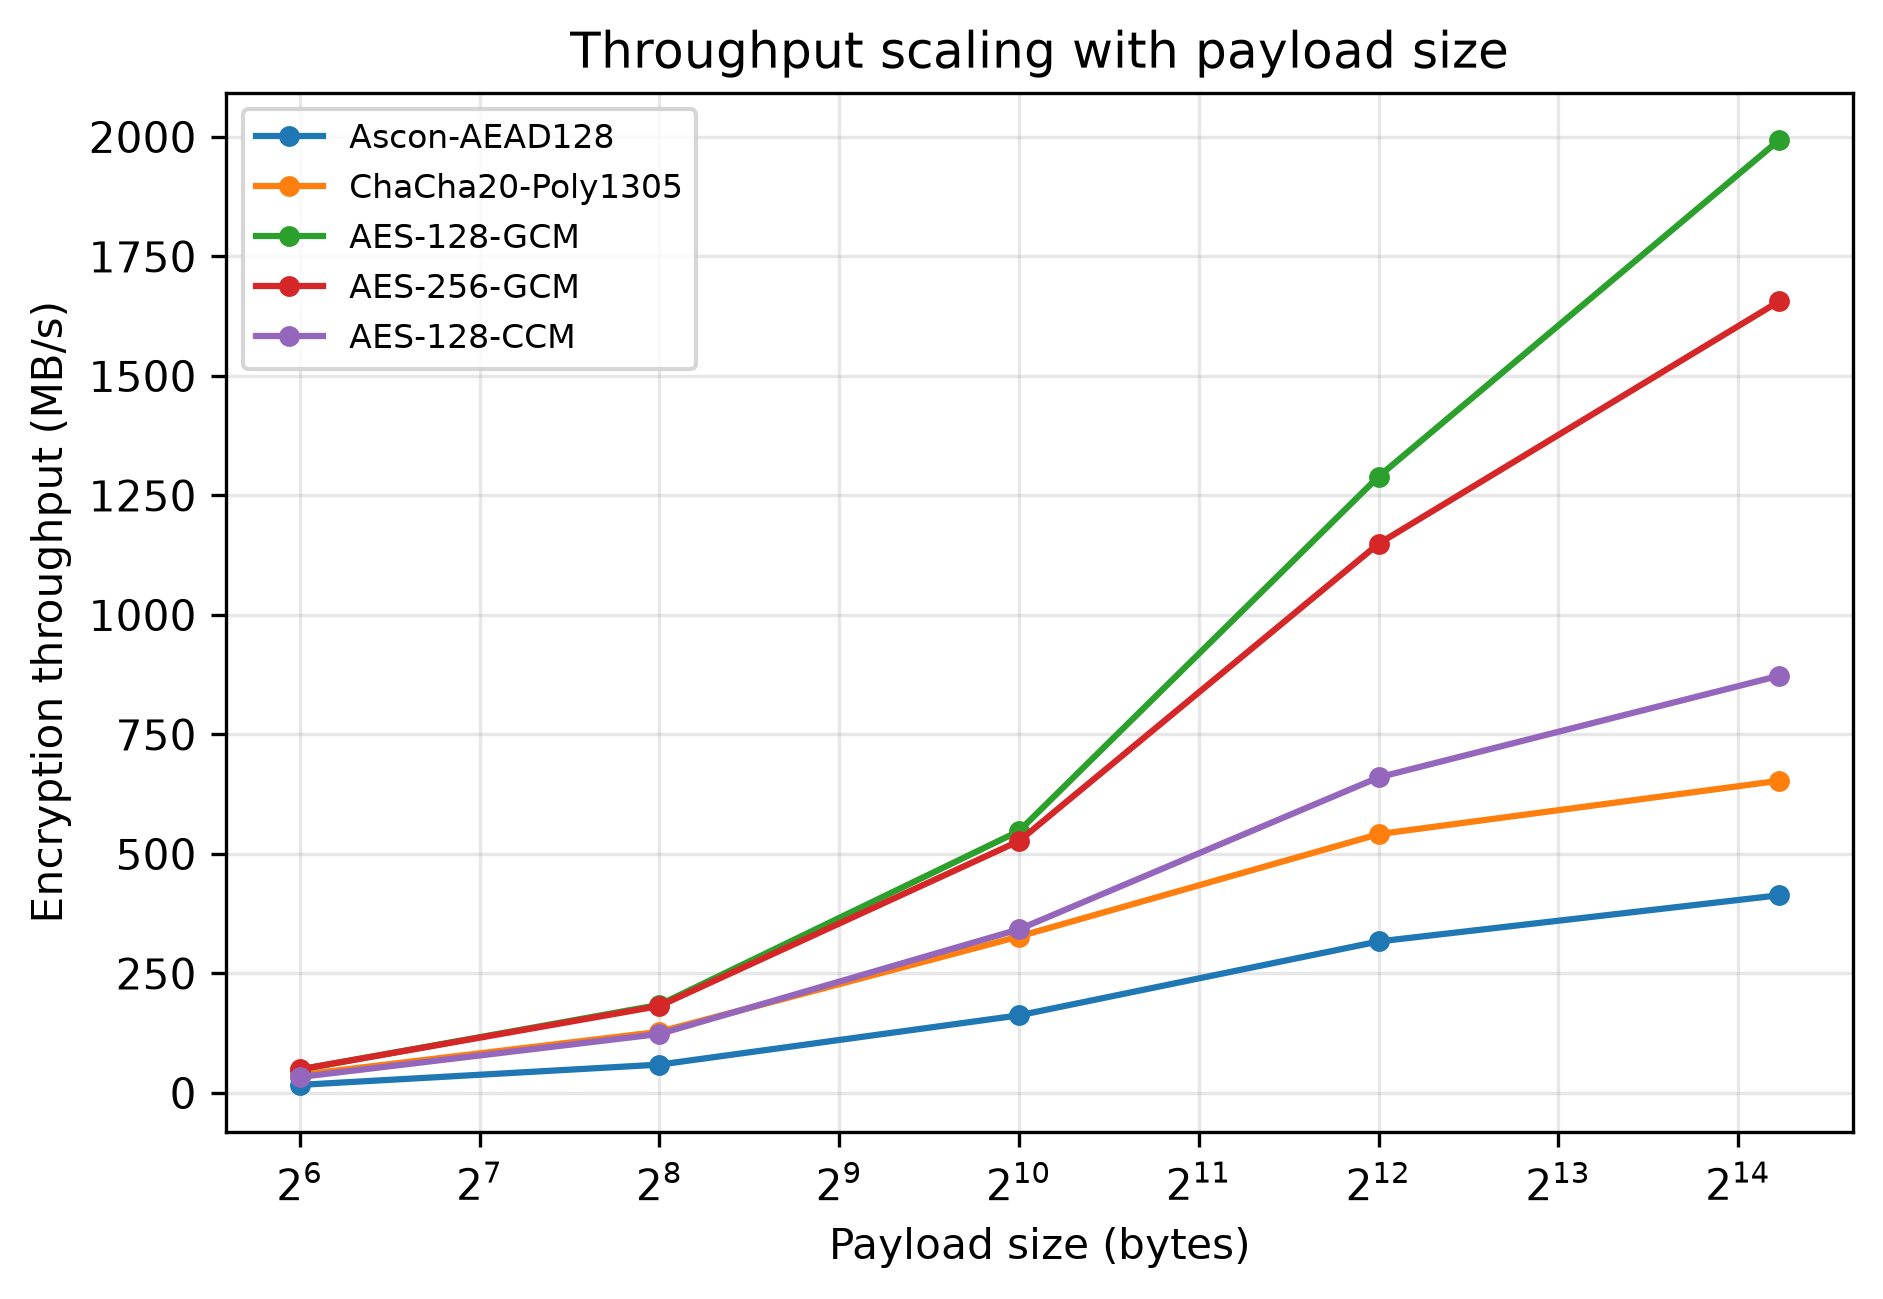
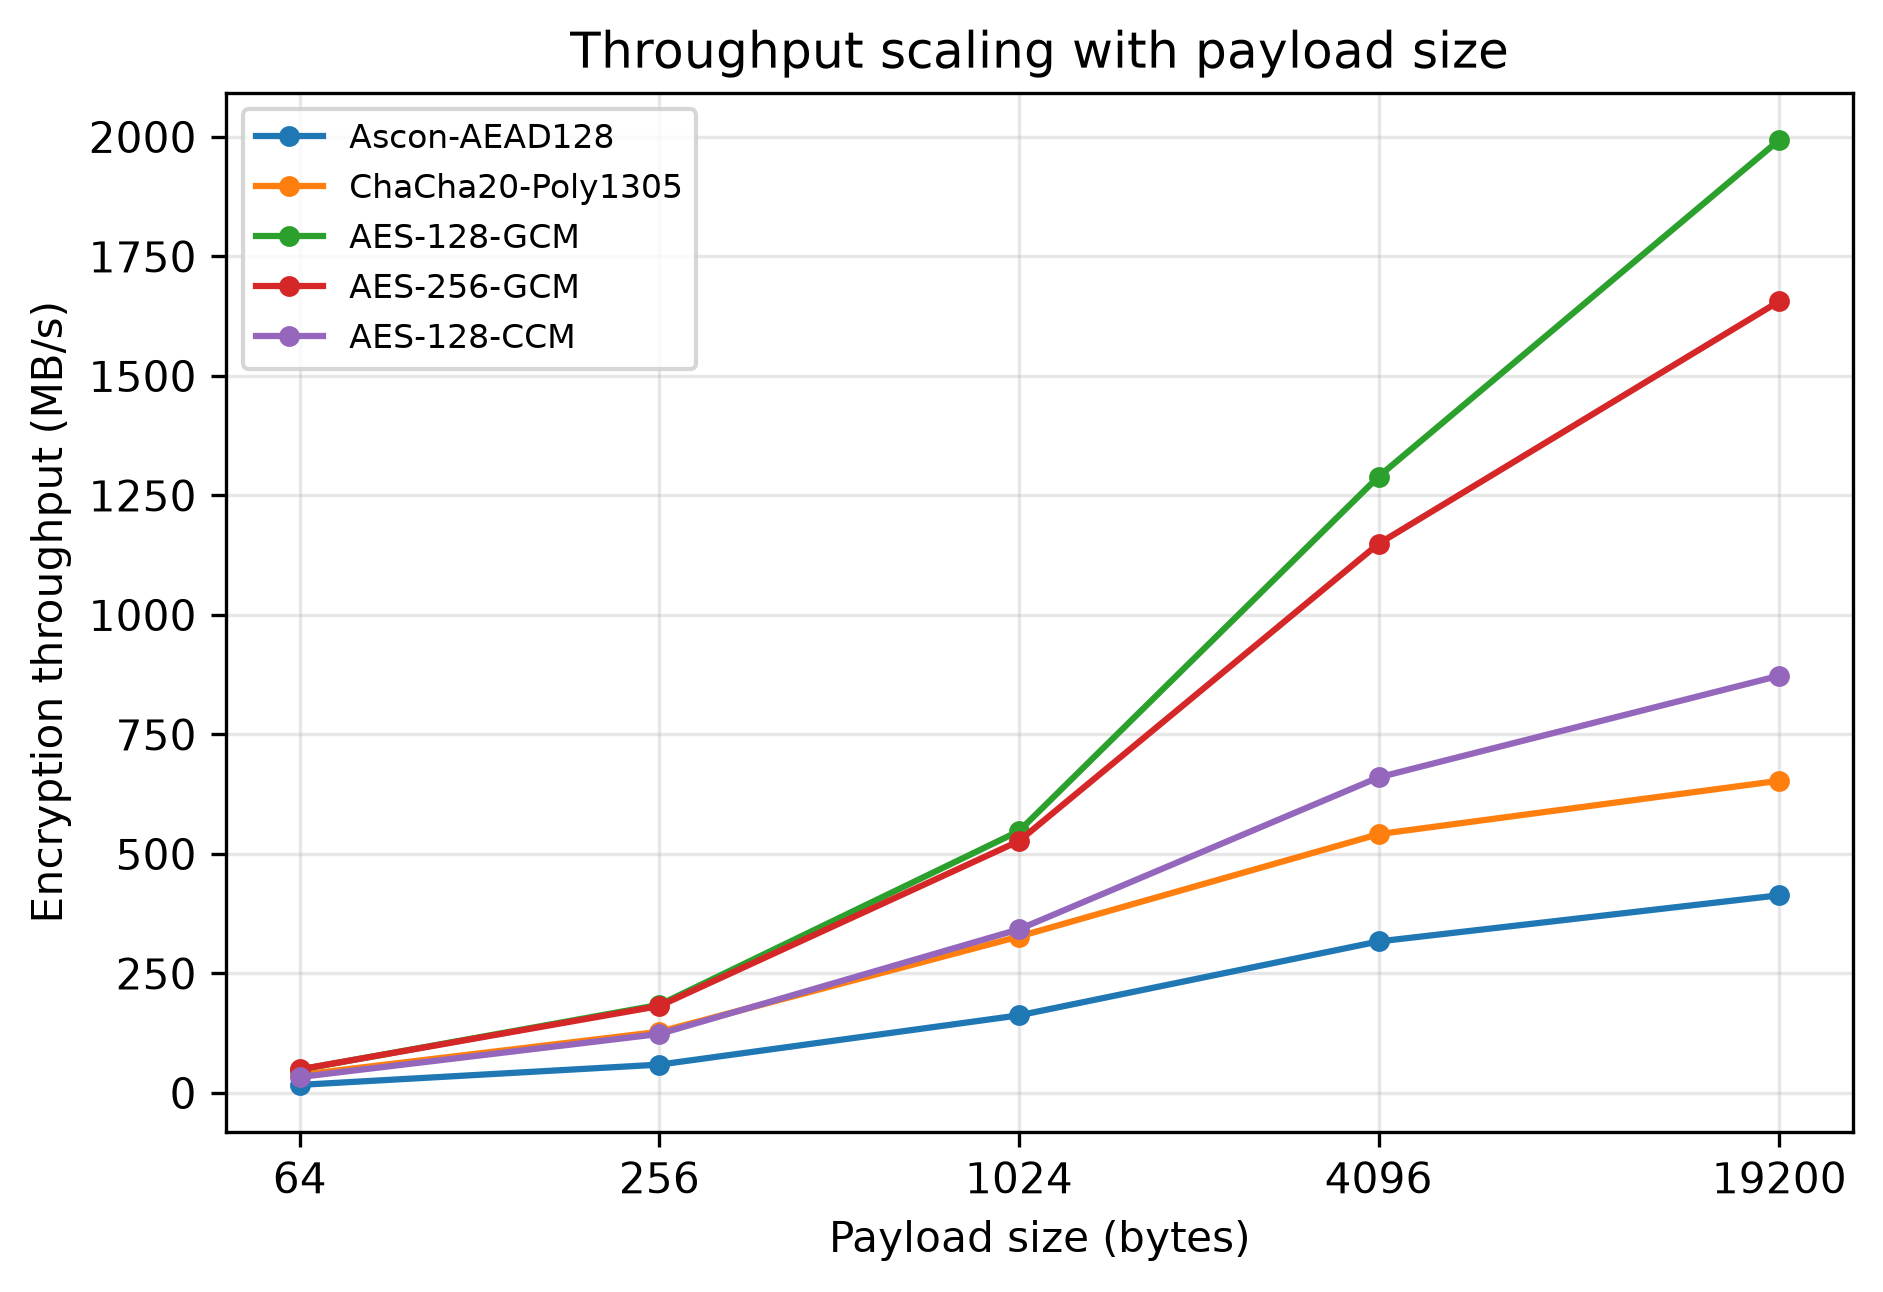
Isolate effect of ARMv8 crypto extensions via capability masking
Pi 4 unavailable from the lab, so hardware acceleration was isolated
on a single board using OPENSSL_armcap=0 to disable runtime detection
of the aes, pmull and NEON code paths. This holds CPU, clock, kernel,
OpenSSL build and dataset constant, changing one variable.

Throughput at 19200 bytes, hardware enabled vs software only:
  Ascon-AEAD128       365 -> 374 MB/s   (unchanged, control)
  ChaCha20-Poly1305   621 -> 277 MB/s   (-55%)
  AES-128-GCM        2000 -> 103 MB/s   (-95%)
  AES-256-GCM        1670 ->  88 MB/s   (-95%)
  AES-128-CCM         867 -> 101 MB/s   (-88%)

Ranking inverts: AES-128-GCM goes from 5.5x faster than Ascon to
3.6x slower. Ascon is unaffected because it uses the compiled
ascon-c library rather than OpenSSL, confirming the manipulation
affected only the intended code paths.

Benchmark harness now records openssl_armcap and hw_accel_enabled
so datasets are self-describing.

diff --git a/benchmark.py b/benchmark.py
@@ -1,0 +1,201 @@
+"""
+AEAD benchmark harness for EEG data on single-board ARM platforms.
+
+Runs five AEAD algorithms across a range of payload sizes, recording
+latency, throughput, memory and CPU time. Writes one CSV row per
+algorithm/payload combination.
+
+Runs unchanged on any Linux board; platform details are captured
+automatically so results from different machines stay distinguishable.
+"""
+import argparse, csv, gc, os, platform, statistics, subprocess, sys
+import time, tracemalloc
+from datetime import datetime
+
+import numpy as np
+import pandas as pd
+import psutil
+
+from algorithms import ALGORITHMS
+
+PAYLOAD_SIZES = [64, 256, 1024, 4096, 19200]
+DEFAULT_REPS = 30
+WARMUP_REPS = 5
+ASSOCIATED_DATA = b"subject=S001;device=eeg-node;fmt=float32"
+
+
+def platform_info():
+    """Capture everything needed to tell one board's results from another."""
+    info = {
+        "hostname": platform.node(),
+        "kernel": platform.release(),
+        "arch": platform.machine(),
+        "python": platform.python_version(),
+        "cores": os.cpu_count(),
+    }
+    try:
+        with open("/proc/device-tree/model") as f:
+            info["board"] = f.read().strip("\x00").strip()
+    except OSError:
+        info["board"] = "unknown"
+    try:
+        with open("/proc/cpuinfo") as f:
+            feats = [l for l in f if l.startswith("Features")]
+        info["cpu_features"] = feats[0].split(":", 1)[1].strip() if feats else ""
+    except OSError:
+        info["cpu_features"] = ""
+    info["aes_hw"] = "aes" in info["cpu_features"].split()
+    info["openssl_armcap"] = os.environ.get("OPENSSL_armcap", "default")
+    info["hw_accel_enabled"] = info["aes_hw"] and info["openssl_armcap"] != "0"
+    try:
+        info["cpu_mhz"] = int(subprocess.check_output(
+            ["cat", "/sys/devices/system/cpu/cpu0/cpufreq/scaling_cur_freq"]
+        ).strip()) // 1000
+    except Exception:
+        info["cpu_mhz"] = 0
+    return info
+
+
+def load_eeg_bytes(path, needed):
+    """Read EEG channels as float32 and return at least `needed` bytes."""
+    df = pd.read_csv(path)
+    channels = [c for c in df.columns if c.lower() != "time"]
+    raw = df[channels].to_numpy(dtype=np.float32).tobytes()
+    if len(raw) < needed:
+        raise ValueError(f"{path} yields {len(raw)} bytes, need {needed}")
+    print(f"Loaded {path}: {len(channels)} channels, {len(raw)} bytes")
+    return raw
+
+
+def time_operation(fn, reps):
+    """Median and IQR in ms, with total CPU time across all reps."""
+    for _ in range(WARMUP_REPS):
+        fn(0)
+    gc.disable()
+    cpu0 = time.process_time()
+    samples = []
+    for i in range(reps):
+        t0 = time.perf_counter()
+        fn(i)
+        samples.append(time.perf_counter() - t0)
+    cpu_total = time.process_time() - cpu0
+    gc.enable()
+    samples.sort()
+    q1 = samples[len(samples) // 4]
+    q3 = samples[(3 * len(samples)) // 4]
+    return {
+        "median_ms": statistics.median(samples) * 1000,
+        "iqr_ms": (q3 - q1) * 1000,
+        "min_ms": samples[0] * 1000,
+        "max_ms": samples[-1] * 1000,
+        "cpu_time_s": cpu_total,
+    }
+
+
+def measure_memory(algo, nonce, plaintext):
+    """Python-level peak allocation plus process RSS delta, both in KB.
+
+    tracemalloc sees only Python allocations, so C-side buffers in
+    OpenSSL and ascon-c are invisible to it. RSS delta is coarser but
+    catches those. Both are reported; neither alone is complete.
+    """
+    proc = psutil.Process()
+    gc.collect()
+    rss_before = proc.memory_info().rss
+    tracemalloc.start()
+    ct = algo.encrypt(nonce, ASSOCIATED_DATA, plaintext)
+    algo.decrypt(nonce, ASSOCIATED_DATA, ct)
+    _, peak = tracemalloc.get_traced_memory()
+    tracemalloc.stop()
+    rss_after = proc.memory_info().rss
+    return peak / 1024, max(0, rss_after - rss_before) / 1024
+
+
+def run(args):
+    info = platform_info()
+    print("=" * 68)
+    print(f"Board:    {info['board']}")
+    print(f"Kernel:   {info['kernel']}  ({info['arch']}, {info['cores']} cores)")
+    print(f"CPU freq: {info['cpu_mhz']} MHz")
+    print(f"AES in hardware: {'yes' if info['aes_hw'] else 'no'}"
+          f"   OpenSSL armcap: {info['openssl_armcap']}"
+          f"   accel active: {info['hw_accel_enabled']}")
+    print(f"Repetitions per measurement: {args.reps}")
+    print("=" * 68)
+
+    eeg = load_eeg_bytes(args.data, max(PAYLOAD_SIZES))
+    rows = []
+
+    for algo in ALGORITHMS:
+        algo.set_key(algo.new_key())
+        print(f"\n{algo.name}")
+        for size in PAYLOAD_SIZES:
+            pt = eeg[:size]
+            nonces = [algo.new_nonce() for _ in range(args.reps + WARMUP_REPS)]
+
+            ct = algo.encrypt(nonces[0], ASSOCIATED_DATA, pt)
+            if algo.decrypt(nonces[0], ASSOCIATED_DATA, ct) != pt:
+                sys.exit(f"FATAL: {algo.name} round trip failed at {size} B")
+
+            enc = time_operation(
+                lambda i: algo.encrypt(nonces[i], ASSOCIATED_DATA, pt),
+                args.reps)
+
+            cts = [algo.encrypt(n, ASSOCIATED_DATA, pt)
+                   for n in nonces[:args.reps + WARMUP_REPS]]
+            dec = time_operation(
+                lambda i: algo.decrypt(nonces[i], ASSOCIATED_DATA, cts[i]),
+                args.reps)
+
+            tm_kb, rss_kb = measure_memory(algo, nonces[0], pt)
+            overhead = len(ct) - size + algo.nonce_bytes
+
+            rows.append({
+                "timestamp": datetime.now().isoformat(timespec="seconds"),
+                "board": info["board"],
+                "hostname": info["hostname"],
+                "cpu_mhz": info["cpu_mhz"],
+                "aes_hw": info["aes_hw"],
+                "openssl_armcap": info["openssl_armcap"],
+                "hw_accel_enabled": info["hw_accel_enabled"],
+                "algorithm": algo.name,
+                "construction": algo.construction,
+                "key_bytes": algo.key_bytes,
+                "nonce_bytes": algo.nonce_bytes,
+                "payload_bytes": size,
+                "reps": args.reps,
+                "enc_median_ms": round(enc["median_ms"], 6),
+                "enc_iqr_ms": round(enc["iqr_ms"], 6),
+                "enc_min_ms": round(enc["min_ms"], 6),
+                "enc_max_ms": round(enc["max_ms"], 6),
+                "dec_median_ms": round(dec["median_ms"], 6),
+                "dec_iqr_ms": round(dec["iqr_ms"], 6),
+                "enc_throughput_mbs": round(
+                    size / (enc["median_ms"] / 1000) / 1e6, 4),
+                "dec_throughput_mbs": round(
+                    size / (dec["median_ms"] / 1000) / 1e6, 4),
+                "enc_cpu_time_s": round(enc["cpu_time_s"], 6),
+                "dec_cpu_time_s": round(dec["cpu_time_s"], 6),
+                "tracemalloc_peak_kb": round(tm_kb, 2),
+                "rss_delta_kb": round(rss_kb, 2),
+                "ciphertext_bytes": len(ct),
+                "overhead_bytes": overhead,
+                "overhead_pct": round(100 * overhead / size, 3),
+            })
+            print(f"  {size:>6} B   enc {enc['median_ms']:8.4f} ms   "
+                  f"dec {dec['median_ms']:8.4f} ms   "
+                  f"{rows[-1]['enc_throughput_mbs']:7.2f} MB/s")
+
+    with open(args.out, "w", newline="") as f:
+        w = csv.DictWriter(f, fieldnames=list(rows[0].keys()))
+        w.writeheader()
+        w.writerows(rows)
+    print(f"\nWrote {len(rows)} rows to {args.out}")
+
+
+if __name__ == "__main__":
+    p = argparse.ArgumentParser()
+    p.add_argument("--data", default="eeg_dataset/S001R01.csv")
+    p.add_argument("--reps", type=int, default=DEFAULT_REPS)
+    p.add_argument("--out", default="results_benchmark.csv")
+    run(p.parse_args())

diff --git a/compare_hw_sw.py b/compare_hw_sw.py
@@ -1,0 +1,42 @@
+"""Compare algorithm performance with and without hardware AES."""
+import matplotlib
+matplotlib.use("Agg")
+import matplotlib.pyplot as plt
+import pandas as pd
+
+plt.rcParams.update({"font.size": 10, "axes.grid": True, "grid.alpha": 0.3,
+                     "figure.dpi": 300, "savefig.bbox": "tight"})
+
+ORDER = ["Ascon-AEAD128", "ChaCha20-Poly1305", "AES-128-GCM",
+         "AES-256-GCM", "AES-128-CCM"]
+
+hw = pd.read_csv("results_pi5_hwaccel.csv")
+sw = pd.read_csv("results_pi5_swonly.csv")
+big = hw.payload_bytes.max()
+h = hw[hw.payload_bytes == big].set_index("algorithm").reindex(ORDER)
+s = sw[sw.payload_bytes == big].set_index("algorithm").reindex(ORDER)
+
+x = range(len(ORDER)); w = 0.38
+fig, ax = plt.subplots(figsize=(8, 4.8))
+ax.bar([i - w/2 for i in x], h.enc_throughput_mbs, w,
+       label="Hardware AES enabled", color="#4c72b0")
+ax.bar([i + w/2 for i in x], s.enc_throughput_mbs, w,
+       label="Software only", color="#c44e52")
+for i in x:
+    ax.text(i - w/2, h.enc_throughput_mbs.iloc[i], "%.0f" % h.enc_throughput_mbs.iloc[i],
+            ha="center", va="bottom", fontsize=8)
+    ax.text(i + w/2, s.enc_throughput_mbs.iloc[i], "%.0f" % s.enc_throughput_mbs.iloc[i],
+            ha="center", va="bottom", fontsize=8)
+ax.set_xticks(list(x)); ax.set_xticklabels(ORDER, rotation=20, ha="right")
+ax.set_ylabel("Encryption throughput (MB/s)")
+ax.set_title("Effect of ARMv8 crypto extensions (%d-byte payload)" % big)
+ax.legend(fontsize=9)
+fig.savefig("figures/fig_hw_vs_sw.png")
+plt.close(fig)
+
+print("%-20s %10s %10s %8s" % ("Algorithm", "HW MB/s", "SW MB/s", "Change"))
+print("-" * 52)
+for a in ORDER:
+    hv, sv = h.loc[a, "enc_throughput_mbs"], s.loc[a, "enc_throughput_mbs"]
+    print("%-20s %10.1f %10.1f %7.0f%%" % (a, hv, sv, 100 * (sv - hv) / hv))
+print("\nfigures/fig_hw_vs_sw.png written")

diff --git a/make_figures.py b/make_figures.py
@@ -50,6 +50,9 @@ def fig_throughput(df, outdir):
         ax.plot(s.payload_bytes, s.enc_throughput_mbs, marker="o", ms=4,
                 label=algo, color=COLORS[algo])
     ax.set_xscale("log", base=2)
+    ax.set_xticks(sorted(df.payload_bytes.unique()))
+    ax.set_xticklabels([str(int(v)) for v in sorted(df.payload_bytes.unique())])
+    ax.minorticks_off()
     ax.set_xlabel("Payload size (bytes)")
     ax.set_ylabel("Encryption throughput (MB/s)")
     ax.set_title("Throughput scaling with payload size")
@@ -68,6 +71,7 @@ def fig_largest(df, outdir):
     ax.invert_yaxis()
     ax.set_xlabel("Encryption throughput (MB/s)")
     ax.set_title("Throughput at %d-byte payload" % big)
+    ax.set_xlim(0, s.enc_throughput_mbs.max() * 1.12)
     for i, v in enumerate(s.enc_throughput_mbs):
         ax.text(v, i, " %.0f" % v, va="center", fontsize=8)
     fig.savefig(os.path.join(outdir, "fig_throughput_largest.png"))
